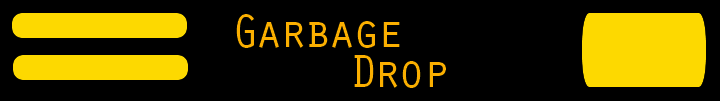
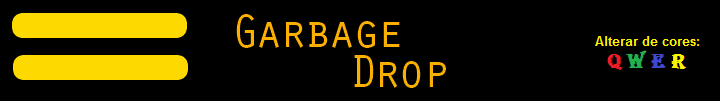
Adicionado textura para os tipos de lixo e mudanca da imagem de header

Changed region(s): [[0.7944, 0.1188, 1.0, 0.8614]]

diff --git a/view/GameScreen.java b/view/GameScreen.java
@@ -32,12 +32,11 @@ public class GameScreen extends JPanel implements Runnable, KeyListener {
     
     // game movement and control variables 
     private boolean right = true, left = false, up = false, down =false,
-    		running = false, spaceBar = false;
+    		running = false;
     
     // imagens
     private BufferedImage backgroundImg;
     private BufferedImage headerImg;
-    private BufferedImage garbageImg;
    
     // constructor
     public GameScreen() {
@@ -50,7 +49,6 @@ public class GameScreen extends JPanel implements Runnable, KeyListener {
         try {
 			backgroundImg = ImageIO.read(getClass().getResourceAsStream("/images/background.png"));
 			headerImg = ImageIO.read(getClass().getResourceAsStream("/images/header.png"));
-			garbageImg = ImageIO.read(getClass().getResourceAsStream("/images/garbage.png"));
 		} catch (IOException e) {
 			e.printStackTrace();
 		}
@@ -62,12 +60,11 @@ public class GameScreen extends JPanel implements Runnable, KeyListener {
     	int yCoor = random.nextInt(Math.round(HEIGHT/SQUARESIZE));
     	if (yCoor <= 5) yCoor = 6;
     	int type = random.nextInt(4);
-		garbage = new Garbage(xCoor, yCoor, type, garbageImg);
+		garbage = new Garbage(xCoor, yCoor, type, SQUARESIZE);
     }
     
     // tick method
-    public void tick() {
-    	
+    public void tick() {	
     	// movement the snake
     	snake.addBodyPart(xCoor, yCoor, SQUARESIZE);	
     	if(snake.getLength() > snakeSize) {
@@ -77,7 +74,7 @@ public class GameScreen extends JPanel implements Runnable, KeyListener {
     	// verify if the snake collects the garbage
     	if(xCoor == garbage.getX() && yCoor == garbage.getY()) {
     		// verify if the snake color is different of the garbage color
-    		if(snake.getColor() != garbage.getType()){
+    		if(snake.getColor() != garbage.getColor()){
     			stop("incorect color");
     			return;
     		}
@@ -98,7 +95,7 @@ public class GameScreen extends JPanel implements Runnable, KeyListener {
         }
         
         // verify if the snake hits the walls
-        if(xCoor < 0 || xCoor > Math.round(WIDTH/SQUARESIZE) || yCoor < 5 || yCoor > Math.round(HEIGHT/SQUARESIZE)){
+        if(xCoor < 0 || xCoor >= Math.round(WIDTH/SQUARESIZE) || yCoor < 5 || yCoor >= Math.round(HEIGHT/SQUARESIZE)){
         	stop("hits wall");
         }
         
@@ -106,13 +103,13 @@ public class GameScreen extends JPanel implements Runnable, KeyListener {
     	if(right){
     		xCoor++;
     	}
-    	if(left){
+    	else if(left){
     		xCoor--;
     	}
-    	if(up){
+    	else if(up){
     		yCoor--;
     	}
-    	if(down){
+    	else if(down){
     		yCoor++;
     	}
     	
@@ -136,9 +133,8 @@ public class GameScreen extends JPanel implements Runnable, KeyListener {
             g.drawLine(0, i * SQUARESIZE, WIDTH, i * SQUARESIZE);
         }
         
-        // paint the garbage
+        // draw the garbage in the screen
         garbage.draw(g);
-        
         
         // paint the snake
         for (int i = 0; i < snake.getLength(); i++) {
@@ -149,7 +145,11 @@ public class GameScreen extends JPanel implements Runnable, KeyListener {
         g.drawImage(headerImg, 0, 0, this);
         
         // draw score
-        g.drawString("Pontos : " + (snakeSize - 3), 40, 30);
+        g.drawString("Pontos : " + (snakeSize - 3), 30, 30);
+        
+        // draw player name
+        g.drawString("<nome jogador>", 30, 71);
+        
     }
  
     public void start() {
@@ -169,7 +169,6 @@ public class GameScreen extends JPanel implements Runnable, KeyListener {
             tick();
             repaint();
             
-            // delay of 100 milliseconds
         	try{
     			Thread.sleep(75);
     		} 
@@ -212,18 +211,22 @@ public class GameScreen extends JPanel implements Runnable, KeyListener {
 		}
 		
 		if(key == KeyEvent.VK_Q){
+			// red
 			snake.setColor(0);
 		}
 		
 		if(key == KeyEvent.VK_W){
+			// green
 			snake.setColor(1);
 		}
 		
 		if(key == KeyEvent.VK_E){
+			// blue
 			snake.setColor(2);
 		}
 		
 		if(key == KeyEvent.VK_R){
+			// yellow
 			snake.setColor(3);
 		}
 	}

diff --git a/entities/Garbage.java b/entities/Garbage.java
@@ -1,60 +1,61 @@
 package entities;
 
-import java.awt.Color;
 import java.awt.Graphics;
 import java.awt.image.BufferedImage;
+import java.io.IOException;
+import javax.imageio.ImageIO;
 
 public class Garbage {
 	// attributes
 	private int x;
 	private int y;
-	private int type;
+	private int color;
+	private int squareSize;
 	private BufferedImage image;
-
+	
 	// constructor
-	public Garbage(int x, int y, int type,BufferedImage image) {
+	public Garbage(int x, int y, int color, int squareSize) {
 		setX(x);
 		setY(y);
-		setType(type);
-		setImage(image);
+		setColor(color);
+		setSquareSize(squareSize);
 	}
 	
-	// drawn the garbage
-	public void draw(Graphics g) {
-		// verify what is the current color  
-		if(getType() == 0){
-			g.setColor(Color.RED);
-		}
-		else if(getType() == 1){
-			g.setColor(Color.GREEN);
-		}
-		else if(getType() == 2){
-			g.setColor(Color.BLUE);
-		}
-		else if(getType() == 3){
-			g.setColor(Color.YELLOW);
-		}
-	 
-		 g.fillRect(x * getSquareSize(), y * getSquareSize(), getSquareSize(), getSquareSize());
-		
-	}
-
 	// getters and setters	
 
-	public int getType() {
-		return this.type;
+	public int getColor() {
+		return this.color;
+	}
+	
+	public void draw(Graphics g){
+		try {
+			if(getColor() == 0){
+				// red
+				image = ImageIO.read(getClass().getResourceAsStream("/images/redGarbage.png"));
+			}
+			else if(getColor() == 1){
+				// green
+				image = ImageIO.read(getClass().getResourceAsStream("/images/greenGarbage.png"));
+			}
+			else if(getColor() == 2){
+				// blue
+				image = ImageIO.read(getClass().getResourceAsStream("/images/blueGarbage.png"));
+			}
+			else if(getColor() == 3){
+				// yellow
+				image = ImageIO.read(getClass().getResourceAsStream("/images/yellowGarbage.png"));
+			}
+			
+		}catch(IOException e){
+			e.printStackTrace();
+		}
+		// draw garbage in the game screen
+		g.drawImage(image, getX() * getSquareSize(), getY() * getSquareSize(), null);
 	}
 
-	private BufferedImage getImage() {
-		return this.image;
-	}
 
-	private void setImage(BufferedImage image) {
-		this.image = image;
-	}
-
-	public void setType(int type) {
-		this.type = type;
+	public void setColor(int color) {
+		this.color = color;
 	}
 
 	public int getX() {
@@ -73,6 +74,12 @@ public class Garbage {
 		this.y = y;
 	}
 	
-	public int getSquareSize() {return 20;}
+	public int getSquareSize() {
+		return this.squareSize;
+	}
 	
+	private void setSquareSize(int squareSize) {
+		this.squareSize = squareSize;
+	}
+
 }

diff --git a/entities/Snake.java b/entities/Snake.java
@@ -27,6 +27,9 @@ public class Snake {
 
 	public void setColor(int color) {
 		this.color = color;
+		for(SnakeBodyPart bodyPart : getBody()){
+			bodyPart.setColor(this.getColor());
+		}
 	}
 	
 	public ArrayList<SnakeBodyPart> getBody() {
